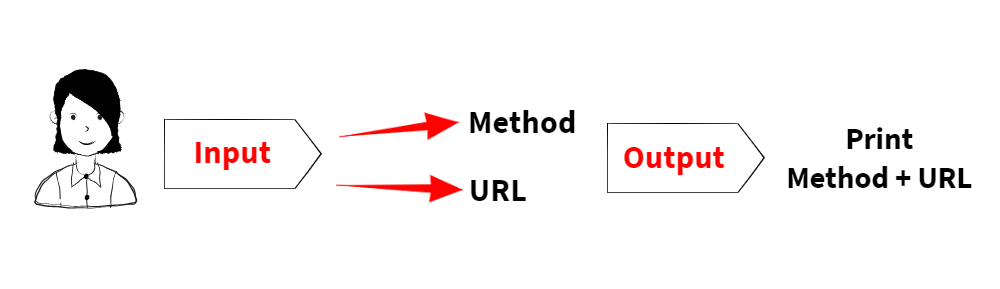
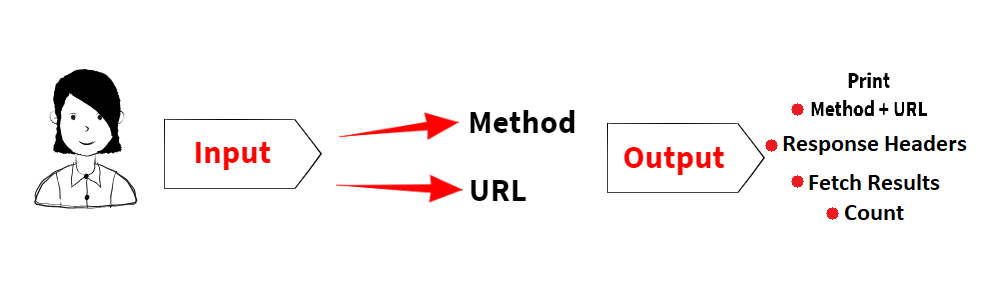
lab 28 done

diff --git a/src/Components/form/form.js b/src/Components/form/form.js
@@ -1,19 +1,20 @@
 import React from 'react';
 import './form.scss';
+import Results from '../Results/results.js'
 
 class Form extends React.Component {
     constructor(props) {
         super(props)
-        this.state = { url: '', method: '', request: {} }
+        this.state = { url: '', method: 'get', request: {} }
     }
 
     submitHandler = (e) => {
         e.preventDefault();
-        if(this.state.method && this.state.url){
-            let request= { url: this.state.url, method:this.state.method};
-            let url= '';
-            let method= '';
-            this.setState({request, url, method});
+        if (this.state.method && this.state.url) {
+            let request = { url: this.state.url, method: this.state.method };
+            let url = '';
+            let method = '';
+            this.setState({ request, url, method });
             e.target.reset();
         } else {
             alert('Please insert url and method');
@@ -26,30 +27,47 @@ class Form extends React.Component {
     }
     selectHandler = (e) => {
         const method = e.target.id;
-        this.setState({method});
+        this.setState({ method });
         console.log(method);
     }
-
+    resultHandler = async (e) => {
+        e.preventDefault();
+        try {
+            const rawData = await fetch(this.state.url);
+            const jsonData = await rawData.json();
+            const resHeaders= await rawData.headers.get('Content-Type');
+            // const headersJson= await resHeaders.json();
+            // .get('Content-Type');
+            // const results = jsonData.results.reduce((result, obj) => {
+            //     result.push({ name: obj.name, url: obj.url });
+            //     return result;
+            // }, []);
+            this.props.handler(jsonData, resHeaders);
+        } catch (e) {
+            console.error(e);
+        }
+    }
     render() {
         return (
             <>
-            <form onSubmit={this.submitHandler}>
-                <label htmlFor="url">URL:  </label>
-                <input id='url' type='text' placeholder='Enter URL here' onChange={this.changeHandler}></input>
-                <button id='go' type='submit'>GO!</button>
-                <p>Please select your method:</p>
-                <input type="radio" id="get" name="method" value="get" onClick={this.selectHandler}></input>
-                <label htmlFor="get">GET</label>
-                <input type="radio" id="post" name="method" value="post" onClick={this.selectHandler}></input>
-                <label htmlFor="post">POST</label>
-                <input type="radio" id="update" name="method" value="update" onClick={this.selectHandler}></input>
-                <label htmlFor="update">UPDATE</label>
-                <input type="radio" id="delete" name="method" value="delete" onClick={this.selectHandler}></input>
-                <label htmlFor="delete">DELETE</label>
-           </form>
-           <div id="formResult"><span>{this.state.method}</span><span>{this.state.url}</span></div>
-
-           </>
+                <form onSubmit={this.resultHandler}>
+                    <label htmlFor="url">URL:  </label>
+                    <input id='url' type='text' placeholder='Enter URL here' onChange={this.changeHandler}></input>
+                    <button id='go' type='submit'>GO!</button>
+                    <p>Please select your method:</p>
+                    <input type="radio" id="get" name="method" value="get" onClick={this.selectHandler}></input>
+                    <label htmlFor="get">GET</label>
+                    <input type="radio" id="post" name="method" value="post" onClick={this.selectHandler}></input>
+                    <label htmlFor="post">POST</label>
+                    <input type="radio" id="update" name="method" value="update" onClick={this.selectHandler}></input>
+                    <label htmlFor="update">UPDATE</label>
+                    <input type="radio" id="delete" name="method" value="delete" onClick={this.selectHandler}></input>
+                    <label htmlFor="delete">DELETE</label>
+                </form>
+                <div id="formResult"><span>Request:</span><span> {this.state.method}</span><span>{this.state.url}</span>
+                {/* <Results /> */}
+                </div>
+            </>
         )
     }
 

diff --git a/src/App.js b/src/App.js
@@ -1,20 +1,35 @@
 import React from 'react';
 import './App.scss';
+import Results from './Components/Results/results.js'
 import Form from './Components/form/form.js'
 import Header from './Components/Header/header.js'
 import Footer from './Components/Footer/footer.js'
 
-function App() {
-  return (
-    <div className="App">
-      <Header />
-      <main>
-      <Form />
-      </main>
-      <Footer />
+class App extends React.Component {
+  constructor(props) {
+    super(props);
+    this.state = { count: 0, headers: {"headers":"not much"}, results: {} };
+  }
+  updateHandler =  (resultData, headersType) => {
+    const results= resultData.results;
+    const headers= {"Content-Type": `${headersType}`};
+    const count = resultData.count;
+    this.setState({ count, headers, results });
+    console.log('consoling from app' , results);
+  }
+  render() {
+    return (
+      <div className="App">
+        <Header />
+        <main id="main">
+          <Form handler={this.updateHandler} />
+          <Results count={this.state.count} headers={this.state.headers} results={this.state.results} />
+        </main>
+        <Footer />
 
-    </div>
-  );
+      </div>
+    )
+  }
 }
 
 export default App;

diff --git a/src/Components/Results/results.js b/src/Components/Results/results.js
@@ -1,0 +1,24 @@
+import React from 'react';
+import ReactJson from 'react-json-view'
+
+class Results extends React.Component {
+    constructor(props) {
+        super(props);
+        this.state = { nothing: 'nothing to see here' };
+    }
+    // prettyHandler = (count, results) => {
+    // }
+    render() {
+        return (
+            <>
+                <section>
+                    <p>Count: {this.props.count}</p>
+                    <span>Headers:</span><ReactJson src={this.props.headers} theme="bright"/>
+                    <span>Results:</span><ReactJson src={this.props.results} theme="bright"/>
+                </section>
+            </>
+        )
+    }
+}
+
+export default Results;

diff --git a/src/index.scss b/src/index.scss
@@ -1,4 +1,5 @@
 body {
+  height: 500px;
   margin: 0;
   font-family: -apple-system, BlinkMacSystemFont, 'Segoe UI', 'Roboto', 'Oxygen',
     'Ubuntu', 'Cantarell', 'Fira Sans', 'Droid Sans', 'Helvetica Neue',
@@ -10,4 +11,8 @@ body {
 code {
   font-family: source-code-pro, Menlo, Monaco, Consolas, 'Courier New',
     monospace;
+}
+#root{
+  // display: flex;
+  height: 500px;
 }

diff --git a/src/Components/form/form.scss b/src/Components/form/form.scss
@@ -2,12 +2,12 @@
     background-color: #efefef;
     margin-left: 10%;
     width: 80%;
-    height: 30vh;
+    height: 35px;
     margin-top: 10vh;
     border: 2px rgba(190, 190, 190, 0.712) solid;
     border-radius: 5px;
     span{
-        position: relative;
+        // position: relative;
         top: 50px;
         margin-right: 35px;
     }

diff --git a/src/index.js b/src/index.js
@@ -1,6 +1,6 @@
 import React from 'react';
 import ReactDOM from 'react-dom';
-import './index.css';
+import './index.scss';
 import App from './App';
 import * as serviceWorker from './serviceWorker';
 

diff --git a/src/App.scss b/src/App.scss
@@ -36,3 +36,7 @@
     transform: rotate(360deg);
   }
 }
+#main{
+  width: 80%;
+  margin-left: 10%;
+}

diff --git a/README.md b/README.md
@@ -1,12 +1,12 @@
-# LAB - Class 27
+# LAB - Class 28
 
-## Topic: Component Based UI
+## Topic: Props & State
 
 ### Author: Darah
 
 ### Links and Resources
 
-- [submission PR](https://github.com/Darah98/resty/pull/2)
+- [submission PR](https://github.com/Darah98/resty/pull/5)
 - [gh-pages](https://darah98.github.io/resty/)
 - [Netlify](https://wizardly-dubinsky-483375.netlify.app/)
 
